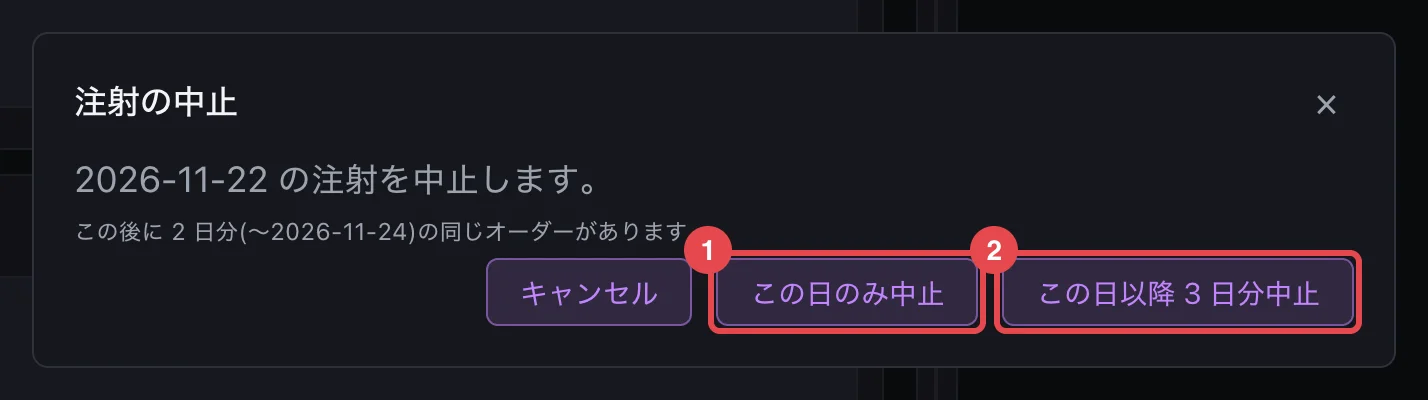
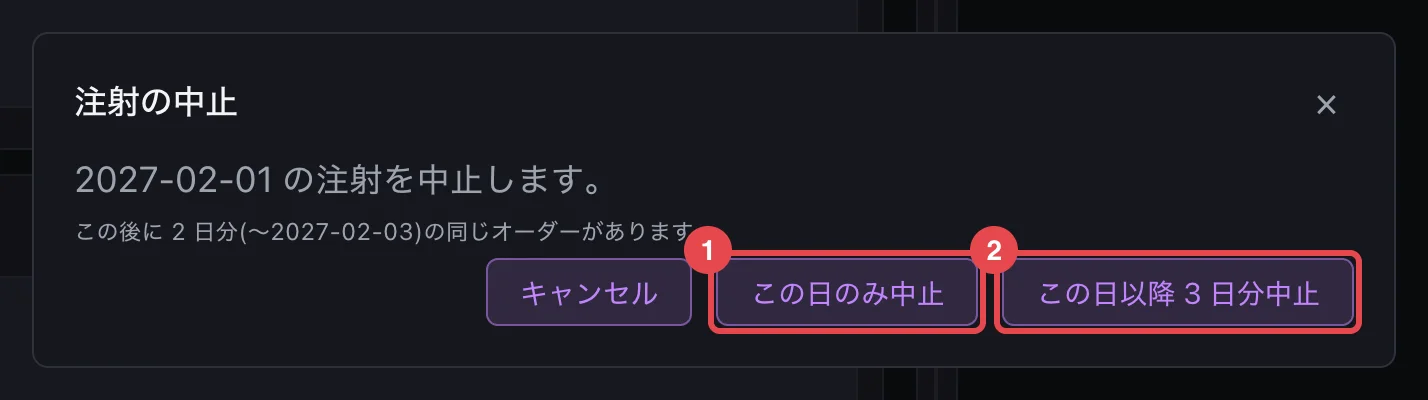
chore: 操作マニュアルの撮影の土台を整備

Changed region(s): [[0.0924, 0.39, 0.4314, 0.48], [0.2157, 0.54, 0.493, 0.6]]

diff --git a/CLAUDE.md b/CLAUDE.md
@@ -14,8 +14,9 @@ docs/                 公開する文書(MkDocs の docs_dir)
     img/<シーン名>/   画面写真(shots/ が書き出す。手で置かない)
   stylesheets/extra.css
 shots/                画面写真の撮影(Playwright)
-  run.mjs             npm run shots -- <シーン名>
-  lib/session.mjs     画面の大きさ・倍率・テーマ・ログイン・撮影
+  run.mjs             npm run shots -- <シーン名> / all
+  lib/session.mjs     画面の大きさ・倍率・テーマ・撮影日・ログイン・撮影
+  lib/karte.mjs       シーン共通の画面操作(カルテを開く・行を選ぶ・カードを消すなど)
   lib/marks.mjs       赤枠と番号の注釈
   scenes/<シーン名>.mjs  1 ページぶんの撮影手順
 scripts/sync-flows.mjs  業務フローの取り込み
@@ -31,6 +32,7 @@ manual-plan.md        操作マニュアルの作成計画と進み具合(公開
 - 画面の文言(ボタン・項目・メニュー)は画面の表記どおりに「」で囲む。
 - 操作マニュアルは「写真 → 番号付きの手順」の順に書き、写真の番号の丸と手順の番号をそろえる。
 - 操作マニュアルのページを足したら `mkdocs.yml` の `nav` と `manual/index.md` の一覧の両方に 1 行足す。
+  どちらも主に操作する人の役割(共通 / 医師 / 看護 / 薬剤部 …)で分けてあり、該当する役割の下に足す。
 - 画面の仕様の正典は `../fhir-client/docs/features/*.md`。書く前に該当節を読み、実際の画面で確かめる。
 
 ## 業務フロー
@@ -59,9 +61,20 @@ manual-plan.md        操作マニュアルの作成計画と進み具合(公開
 - 撮影は `../fhir-client` の開発環境(docker compose)を起動してから行う。既定の撮影先は `http://localhost:5173`。
 - 写すのは架空の患者・職員・医療機関だけ。リポジトリは公開なので、写真に写るものはすべて誰でも見られる。
   撮影に使う患者はシーンの中で名前を明示して開き、検索結果や一覧に別の患者が写り込まないようにする。
+  開発環境には実在の人名(ログイン `ysnr-dev` の職員と、同じ名前の患者)があるので、写真に出ていないか必ず見る。
+- **撮影日**: ブラウザの時計を 2027-02-01 の 9 時に合わせて撮る(`lib/session.mjs` の `SHOOTING_DATE`)。開発データの無い日なので、
+  その日の一覧には撮影のデータだけが並び、写真の日付も撮り直しで変わらない。シーンで日付が要るときは `SHOOTING_DATE` から作る。
+  入院のように日をまたいで続く開発データは撮影日にも出るので、病棟の画面は撮影用の病棟(見本病棟)に絞って撮る。
+- **撮影用のデータ**: 患者・職員・病棟は fhir-client のデモ投入ツールのシナリオ `manualShots`
+  (`../fhir-client/frontend/src/demo-seed/manualShots.ts`)が作る。手で作らない。ページに新しい前提のデータが要るときは
+  このシナリオに足し、流し直す(何度流しても二重にならない)。手順は README「撮影用のデータ」。
+  いまあるもの: 見本 花子(外来。薬剤アレルギーにロキソプロフェン)、見本 太郎(入院。見本病棟 101 ベッド1、撮影日の 4 日前から)、
+  薬剤 三郎(薬剤師、ログイン `pharma`)。
+- **シーン**: 撮影の前後に自分の作ったデータを消し、何度流しても同じ写真になるようにする。共通の操作は `lib/karte.mjs` を使う。
+  部門の画面は、医師のアカウントでオーダーを出してから部門のアカウントで撮る。
 - 撮影のアカウントは役割ごと(doctor / nurse / pharmacist)に `.env` に書く(`.env.example` 参照、`.env` は git 管理外)。
-- 写真は手で加工しない。直すときはシーンを直して撮り直す。画面が変わったら、そのページのシーンを流し直す。
-- 画面の大きさ 1440×900・倍率 2・ダークテーマ・Asia/Tokyo は `lib/session.mjs` で固定している。変えると全写真の撮り直しになる。
+- 写真は手で加工しない。直すときはシーンを直して撮り直す。画面が変わったら、そのページのシーンを流し直す(全部なら `all`)。
+- 画面の大きさ 1920×1080・倍率 2・ダークテーマ・Asia/Tokyo・撮影日は `lib/session.mjs` で固定している。変えると全写真の撮り直しになる。
 - 写真は WebP(品質 85)。範囲は `shot(name, { target })` で必要な部分に絞り、画面全体は必要なときだけにする。
 
 ## 確認コマンド
@@ -70,7 +83,7 @@ manual-plan.md        操作マニュアルの作成計画と進み具合(公開
 docker compose up -d docs                                   # http://localhost:8000/fhir-client-docs/ でプレビュー
 npm run sync-flows                                          # 業務フローを fhir-client から写し直す
 docker compose run --rm docs build --strict                 # 公開と同じビルド(リンク切れで失敗する)
-npm run shots -- <シーン名>                                   # 画面写真を撮り直す
+npm run shots -- <シーン名>                                   # 画面写真を撮り直す(all で全シーン)
 ```
 
 - `npm install` のあと、初回だけ `npx playwright install chromium` が要る。

diff --git a/manual-plan.md b/manual-plan.md
@@ -6,26 +6,19 @@
 ## 現状
 
 - 作成済み: ログイン・処方オーダー・注射オーダーの 3 ページ。
-- 撮影用の患者は「見本 花子」1 人で、開発環境に手で作ったもの。seed などで作り直せない。
-- 撮影アカウントは doctor と nurse だけ(pharmacist は `.env` に未設定)。
-- 処方・注射のシーンに、カルテを開く・行を選ぶ・カードを全部消すなどの同じ処理が重複している。
+- 撮影の土台(第 0 段)は済んだ。撮影日の固定・撮影用のデータ・共通部品の使い方は `CLAUDE.md`「画面写真」。
 
 ## 第 0 段: 撮影の土台
 
-ページを増やす前に済ませる。
-
-- [ ] **共通部品の切り出し**: `openKarte` / `pickRow` / `labeled` / `menuItem` と、カードを全部消す汎用処理を
-  `shots/lib/karte.mjs` に移し、処方・注射のシーンもそれを使う。
-- [ ] **撮影データを作り直せるようにする**: 撮影用の架空の患者・職員と、前提のマスタ・病棟・予約枠をスクリプトで用意する
-  (fhir-client の `src/demo-seed` に撮影用のデータセットを足すか、`shots/setup` を作る)。患者は役割ごとに分ける
-  (外来の見本 花子、病棟・ベッドのある入院患者、救急、透析・化学療法などの継続中の患者)。
-- [ ] **一覧への写り込み対策**: 部門の一覧・病棟の画面・外来患者一覧はその日の全患者が並ぶので、開発環境のままでは
-  検証用の患者が写り込む。撮影専用の環境を立てるか、撮影用の日付に絞って撮るかを決める(「未決事項」)。
-- [ ] **アカウント**: pharmacist と、必要に応じて技師(検査・放射線)・栄養士を `.env.example` と `shots/lib/session.mjs` の
-  `ROLES` に足す。
-- [ ] **一括の撮り直し**: `npm run shots -- all` で全シーンを流せるようにする(画面が変わったときの撮り直し用)。
-- [ ] **目次**: `mkdocs.yml` の操作マニュアルの nav を役割ごと(共通 / 医師 / 看護 / 薬剤部 / 検査・放射線・各部門 /
-  外来・病棟の運用 / データ)に分ける。ファイルは `manual/` 直下のままにしてリンクを変えない。
+- [x] **共通部品の切り出し**: `shots/lib/karte.mjs`(カルテを開く・行を選ぶ・ラベル・メニュー・カードを全部消す・日付の計算)。
+  処方・注射のシーンもこれを使う。
+- [x] **撮影データを作り直せるようにする**: fhir-client のデモ投入ツールにシナリオ `manualShots` を足した(開発環境専用・名指しのみ)。
+  見本 花子(外来)・見本 太郎(入院、見本病棟)・薬剤 三郎(薬剤師)。救急・透析・化学療法などの患者は、そのページを作るときに足す。
+- [x] **一覧への写り込み対策**: 開発環境のまま、ブラウザの時計を撮影日 2027-02-01 に固定する(開発データの無い日)。
+  日をまたぐ入院は撮影日にも出るので、病棟の画面は見本病棟に絞る。見本病棟にはほかのデモ患者を入れない。
+- [x] **アカウント**: 薬剤師(`pharma`)を足した。技師・栄養士などは、その部門のページを作るときに `manualShots` と `.env` に足す。
+- [x] **一括の撮り直し**: `npm run shots -- all`(失敗したシーンがあっても残りを流し、最後に一覧を出す)。
+- [x] **目次**: 操作マニュアルの nav と一覧を役割ごと(いまは共通・医師)に分けた。役割の見出しは、最初のページを足すときに作る。
 
 ## 1 ページの作り方
 
@@ -162,10 +155,8 @@
 
 ## 未決事項
 
-1. **撮影データの置き場所**: 開発環境に見本の患者を足して一覧は撮影用の日付に絞るか、撮影専用の環境(fhir-client と
-   上流 FHIR サーバーを別の DB で立てる)を作るか。部門の一覧が多いので後者が有力。
-2. **管理画面を対象に含めるか**: 当面は保留。
-3. **優先順位**: 上の段の順でよいか。運用検討で先に見せたい部門があれば、その段を前に出す。
+1. **管理画面を対象に含めるか**: 当面は保留。
+2. **優先順位**: 上の段の順でよいか。運用検討で先に見せたい部門があれば、その段を前に出す。
 
 ## 撮影で見つけた fhir-client 側の気になる点
 
@@ -173,3 +164,4 @@
   `docs/features/medication.md` の書き方からは 1 日目にも付くように読める。
 - 連日の注射の 1 日目を編集すると、「反映範囲」の説明が「連日オーダー。この後に…」になる(1 日目に呼び名が無いため)。
 - 医師のカードのメニューに「FHIRリソース表示」が出ていて、写真に写る。
+- 処方の「処方共通」の写真で、番号 4 の丸が「処方区分」の欄にかかっている(シーンの丸の置き方で直せる)。

diff --git a/README.md b/README.md
@@ -31,4 +31,21 @@ cp .env.example .env              # 撮影に使うアカウントを書く
 npm run shots -- login
 ```
 
-写真は `docs/manual/img/<シーン名>/` に書き出されます。写っている患者・職員・医療機関はすべて架空です。
+`npm run shots -- all` で全シーンを撮り直せます。写真は `docs/manual/img/<シーン名>/` に書き出されます。写っている患者・職員・医療機関はすべて架空です。
+
+## 撮影用のデータ
+
+写真に写す架空の患者・職員・病棟は、fhir-client のデモ投入ツールのシナリオ `manualShots` で開発環境に作ります。
+何度流しても二重にはなりません。撮影はブラウザの時計を 2027-02-01 に合わせて行うので、入院などの日付はこの日が基準です。
+
+```bash
+cd ../fhir-client
+docker compose exec frontend npx vite build --config scripts/demo-seed.vite.config.ts
+cd frontend
+set -a; . ../../fhir-client-docs/.env; set +a
+DEMO_SEED_LOGIN=$SHOTS_DOCTOR_LOGIN DEMO_SEED_PASSWORD=$SHOTS_DOCTOR_PASSWORD \
+MANUAL_SHOTS_PASSWORD=$SHOTS_PHARMACIST_PASSWORD \
+  node scripts/dist/demo-seed.mjs --target dev --only manualShots
+```
+
+`MANUAL_SHOTS_PASSWORD` は撮影用の職員(薬剤師など)のログインのパスワードです。先に `.env` の `SHOTS_PHARMACIST_PASSWORD` に決めておきます。

diff --git a/docs/manual/injection.md b/docs/manual/injection.md
@@ -123,7 +123,7 @@ RP の医薬品の行にある薬のアイコン(「医薬品を選択」)を押
 入力に足りないところがあると、上に内容が出て、その項目に印が付きます。直してからもう一度「登録」を押します。
 
 登録すると右側が閉じ、カルテに注射のカードが出ます。連日の注射は、日ごとに 1 枚ずつカードが出ます。
-2 日目からのカードには「連日 2日目(11/22〜)」「隔日(11/22〜)」のように、何日目か・どのパターンかが付きます。
+2 日目からのカードには「連日 2日目(2/1〜)」「隔日(2/1〜)」のように、何日目か・どのパターンかが付きます。
 
 ![登録した注射のカード](img/injection/10-card.webp){ .screen width="841" }
 

diff --git a/docs/manual/index.md b/docs/manual/index.md
@@ -1,9 +1,17 @@
 # 操作マニュアル
 
 画面の操作を、画面写真を付けて手順ごとに説明します。写真の赤枠と番号は、手順の番号に対応しています。
+ページは、主に操作する人の役割ごとに分けています。
+
+## 共通
 
 | ページ | 内容 |
 |---|---|
 | [ログイン](login.md) | ログインIDとパスワードでログインする |
+
+## 医師
+
+| ページ | 内容 |
+|---|---|
 | [処方オーダー](prescription.md) | カルテから処方を入力して登録し、直す・削除する |
 | [注射オーダー](injection.md) | カルテから注射を入力して登録し、直す・中止する・削除する |
